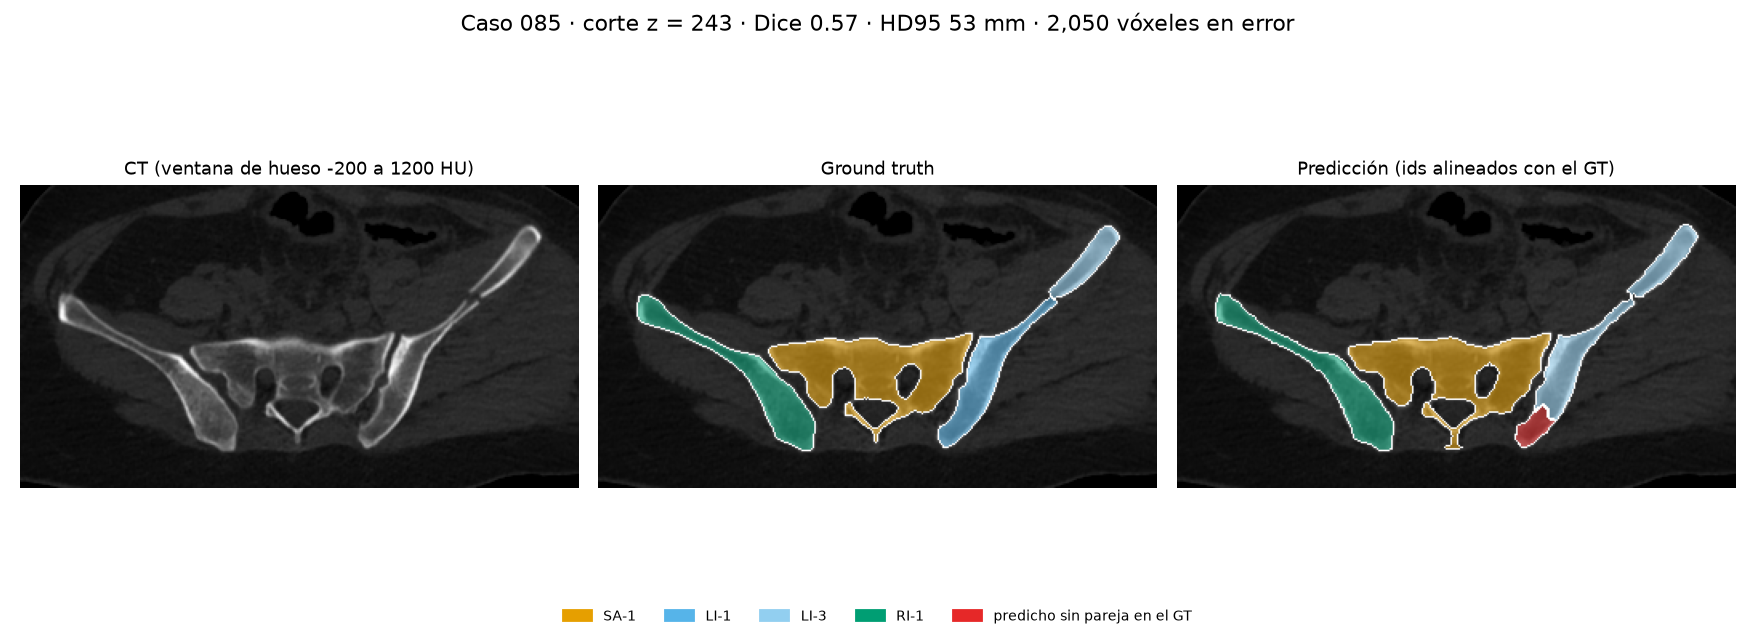
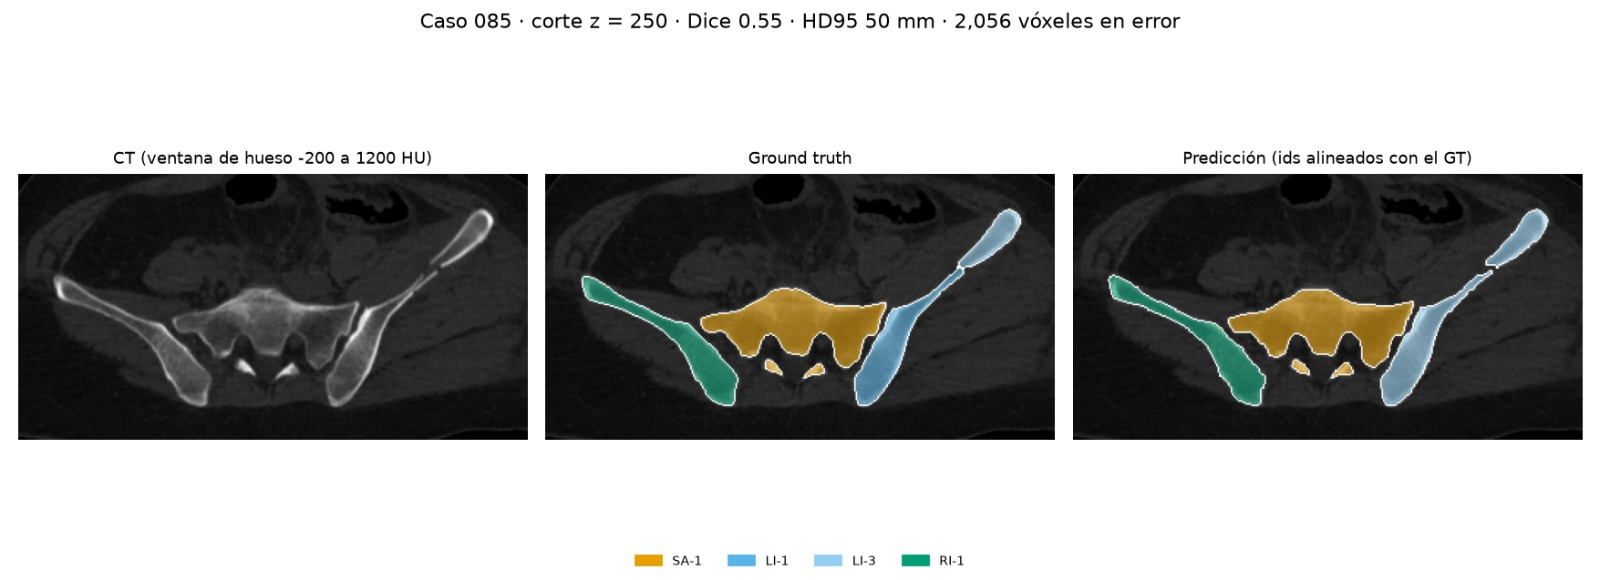
Caso 085: figura del modelo final y descripcion

diff --git a/docs/peores_casos.md b/docs/peores_casos.md
@@ -57,7 +57,10 @@ Esto no contradice la elección del modelo: se eligió por validación, y en tes
   principal del GT (LI-1) se empareja con el fragmento que el modelo llama LI-3 (Dice 0.23) y el LI-3 del GT con el LI-1
   predicho (0.45); el LI-4 queda en 0.04. LI-2, RI-1, RI-2 y SA-1 salen bien (0.84 a 0.96). Hay 5 espurios, uno grande en
   el coxal derecho (14.2 mL) y cuatro de 1.2 a 2.6 mL.
-- **Lo que se ve en la figura:** _(pendiente: revisar `peor_085.png`)_
+- **Lo que se ve en la figura (corte 250):** en el GT, el coxal izquierdo tiene dos piezas: el principal LI-1 (la parte
+  baja, azul oscuro) y el secundario LI-3 (la punta superior del ala, azul claro), separados por la línea de fractura.
+  En la predicción las dos piezas salen con el color de LI-3: el fragmento que el modelo empareja con el secundario cubre
+  también la zona del principal. El sacro y el coxal derecho se ven bien, y en este corte no hay fragmentos rojos.
 - **Hipótesis (por confirmar):** el modelo no distingue cuál de los fragmentos grandes del coxal izquierdo es el
   principal, una decisión que depende de la forma en 3D.
 
